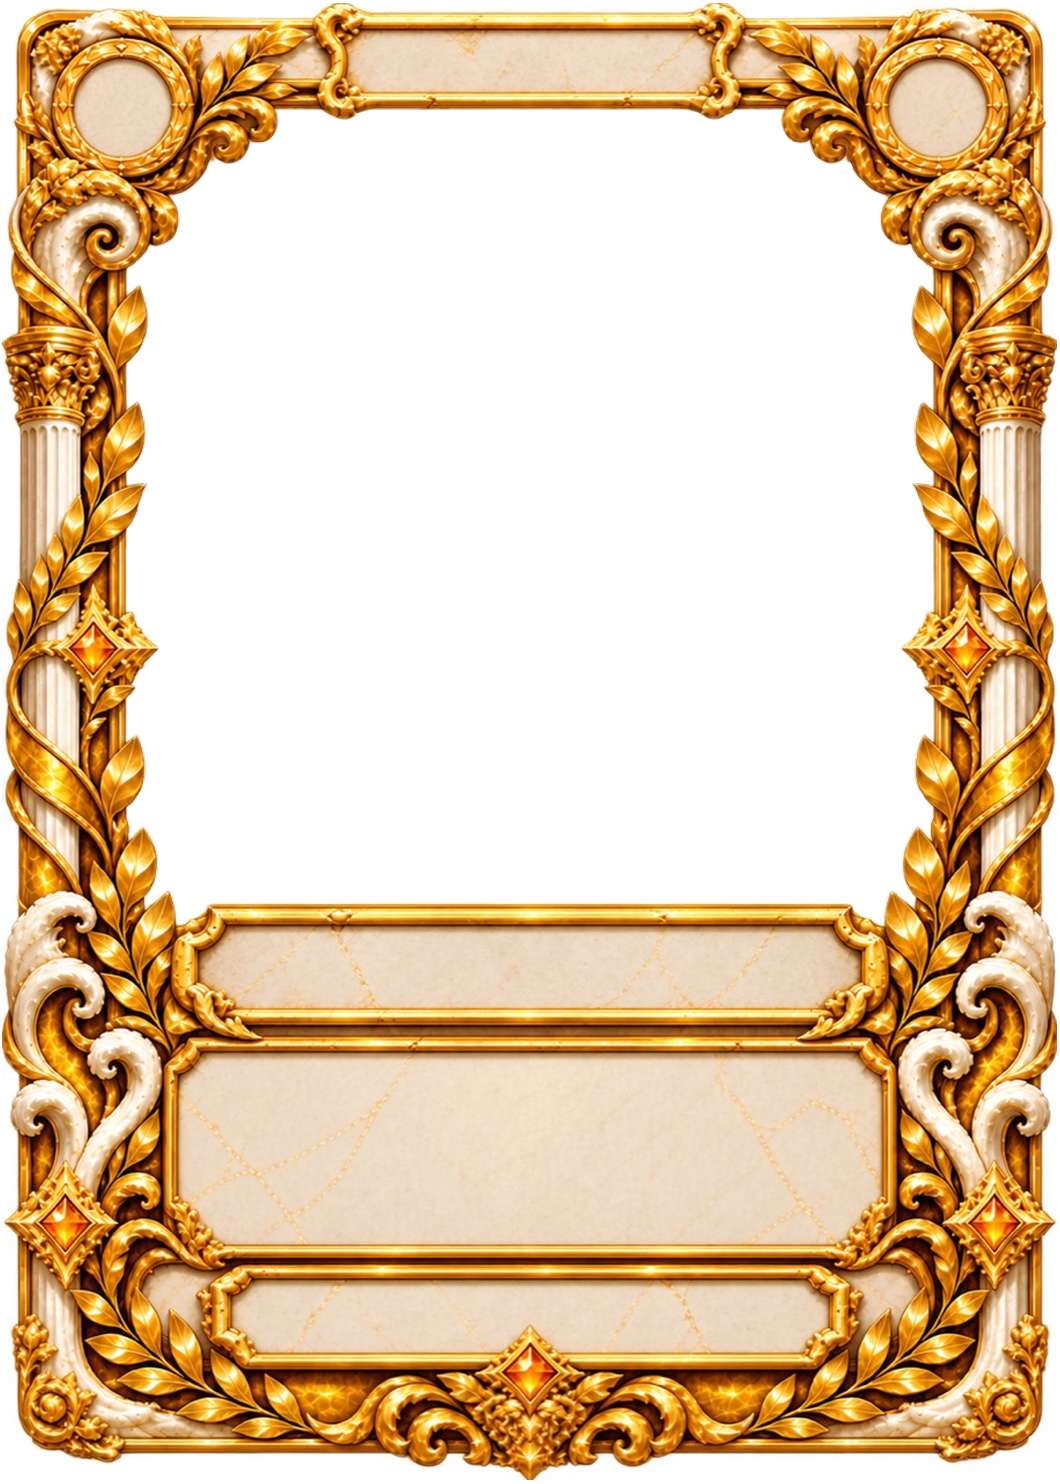
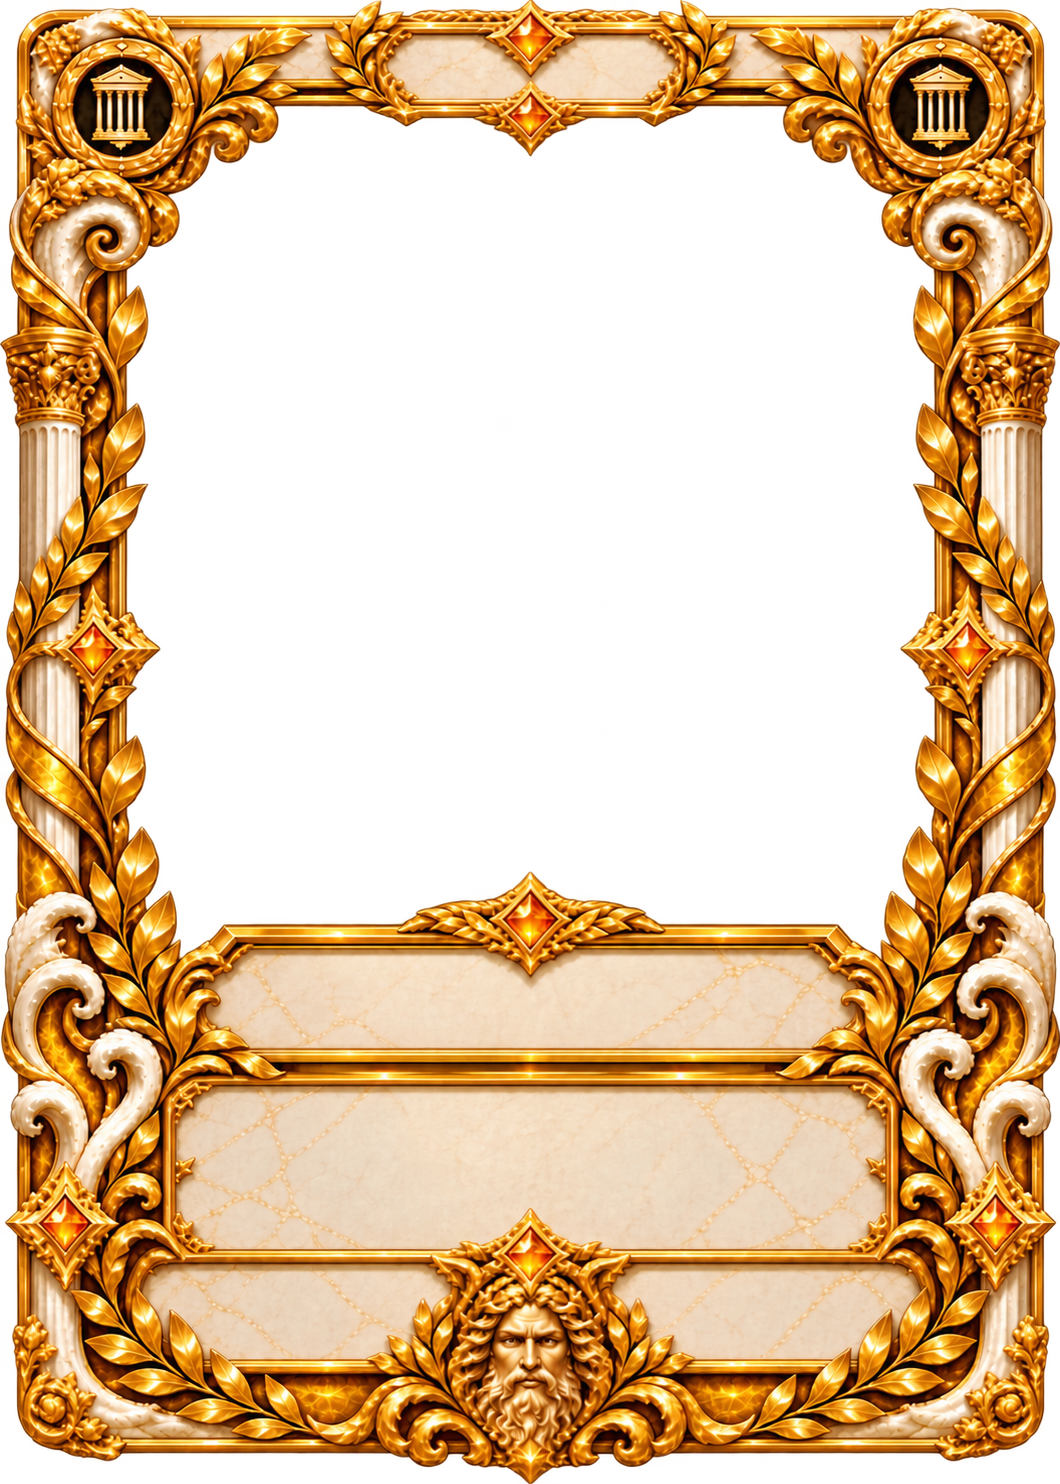
Revert "Replace rarity frames and restore card labels"
This reverts commit b0456628c48510b80b57ea14d74f53a1df18f2e5.

Changed region(s): [[0.0, 0.0, 1.0, 1.0]]

diff --git a/src/components/CardFront.tsx b/src/components/CardFront.tsx
@@ -30,46 +30,17 @@ export function CardFront({
     width,
     card.id === "olympe-30" ? 914 / 1280 : 5 / 7,
   );
+  const ink = card.rarity === 0 || card.rarity === 4 ? "#29231b" : theme.paper;
   const collection =
     EXTENSIONS.find((e) => e.id === card.extension)?.name ?? card.extension;
-  const numberSeal = card.number?.replace("-", "\n") ?? "—";
-  const extensionSeal = {
-    olympe: "EXT.\nI",
-    titans: "EXT.\nII",
-    heros: "EXT.\nIII",
-    creatures: "EXT.\nIV",
-  }[card.extension] ?? card.extension.toUpperCase();
   const unit = width / CARD_REFERENCE.width;
-  const newFrame = card.rarity > 0;
-  // Measured inner cartouches of the owner-supplied master PNGs.
+  // Measured inner cartouches of the seven master PNGs (not one shared offset).
   const nameBox = [
-    { top: 0.681, height: 0.043, left: 0.19, right: 0.19 },
-    { top: 0.628, height: 0.089, left: 0.18, right: 0.18 },
-    { top: 0.621, height: 0.097, left: 0.18, right: 0.18 },
-    { top: 0.621, height: 0.098, left: 0.18, right: 0.18 },
-    { top: 0.617, height: 0.086, left: 0.18, right: 0.18 },
-    { top: 0.624, height: 0.104, left: 0.18, right: 0.18 },
-    { top: 0.638, height: 0.09, left: 0.18, right: 0.18 },
+    { top: 0.681, height: 0.043 }, { top: 0.659, height: 0.045 },
+    { top: 0.673, height: 0.043 }, { top: 0.670, height: 0.043 },
+    { top: 0.665, height: 0.040 }, { top: 0.675, height: 0.047 },
+    { top: 0.673, height: 0.043 },
   ][card.rarity]!;
-  const descriptionBox = [
-    { top: 0.755, height: 0.09 },
-    { top: 0.725, height: 0.126 },
-    { top: 0.727, height: 0.124 },
-    { top: 0.729, height: 0.126 },
-    { top: 0.711, height: 0.14 },
-    { top: 0.738, height: 0.114 },
-    { top: 0.738, height: 0.134 },
-  ][card.rarity]!;
-  const footerBox = [
-    { top: 0.875, height: 0.05 },
-    { top: 0.861, height: 0.066 },
-    { top: 0.861, height: 0.068 },
-    { top: 0.864, height: 0.069 },
-    { top: 0.858, height: 0.071 },
-    { top: 0.861, height: 0.071 },
-    { top: 0.881, height: 0.061 },
-  ][card.rarity]!;
-  const nameInk = ["#29231b", theme.paper, theme.paper, theme.paper, "#29231b", theme.paper, "#29231b"][card.rarity]!;
   // Long descriptions must fit the ivory panel without touching the name band.
   const longDescription = (card.description?.length ?? 0) > 100;
   return (
@@ -123,42 +94,28 @@ export function CardFront({
       />
       {!compact && (
         <>
-          {newFrame && (
-            <>
-              <View style={s.numberSeal}>
-                <Text numberOfLines={2} adjustsFontSizeToFit style={[s.sealText, { fontSize: 40 * unit, lineHeight: 44 * unit }]}>
-                  {numberSeal}
-                </Text>
-              </View>
-              <View style={s.extensionSeal}>
-                <Text numberOfLines={2} adjustsFontSizeToFit style={[s.sealText, { fontSize: 40 * unit, lineHeight: 44 * unit }]}>
-                  {extensionSeal}
-                </Text>
-              </View>
-            </>
-          )}
-          <View style={[s.rarity, newFrame && s.rarityNew]}>
+          <View style={s.rarity}>
             <Text
               numberOfLines={1}
               style={{
-                color: card.rarity === 5 ? theme.paper : "#29231b",
+                color: ink,
                 fontFamily: fonts.bold,
-                fontSize: (newFrame ? 55 : 68) * unit,
+                fontSize: 68 * unit,
                 textAlign: "center",
               }}
             >
               {RARITIES[card.rarity]?.toUpperCase()}
             </Text>
           </View>
-          <View style={[s.name, { top: `${nameBox.top * 100}%`, height: `${nameBox.height * 100}%`, left: `${nameBox.left * 100}%`, right: `${nameBox.right * 100}%` }]}>
+          <View style={[s.name, { top: `${nameBox.top * 100}%`, height: `${nameBox.height * 100}%` }]}>
             <Text
               numberOfLines={1}
               adjustsFontSizeToFit
               style={{
-                color: nameInk,
+                color: ink,
                 fontFamily: fonts.bold,
-                fontSize: (newFrame ? 88 : 100) * unit,
-                lineHeight: (newFrame ? 98 : 110) * unit,
+                fontSize: 100 * unit,
+                lineHeight: 110 * unit,
                 includeFontPadding: false,
                 textAlign: "center",
               }}
@@ -166,7 +123,7 @@ export function CardFront({
               {card.name.toUpperCase()}
             </Text>
           </View>
-          <View style={[s.description, { top: `${descriptionBox.top * 100}%`, height: `${descriptionBox.height * 100}%` }]}>
+          <View style={s.description}>
             <Text
               numberOfLines={5}
               adjustsFontSizeToFit
@@ -180,22 +137,27 @@ export function CardFront({
               {card.description}
             </Text>
           </View>
-          <View style={[s.footer, { top: `${footerBox.top * 100}%`, height: `${footerBox.height * 100}%` }, newFrame && s.footerNew]}>
-            {newFrame ? (
-              <>
-                <Text numberOfLines={1} adjustsFontSizeToFit style={[s.footerEpithet, { fontSize: 39 * unit, lineHeight: 46 * unit }]}>
-                  {card.epithet?.toUpperCase() || card.name.toUpperCase()}
-                </Text>
-                <Text numberOfLines={1} adjustsFontSizeToFit style={[s.footerMeta, { fontSize: 30 * unit, lineHeight: 36 * unit }]}>
-                  {[card.category, collection].filter(Boolean).join(" · ")}
-                </Text>
-              </>
-            ) : (
-              <>
-                <Text style={{ color: "#29231b", fontFamily: fonts.bold, fontSize: 45 * unit }}>{card.number}</Text>
-                <Text numberOfLines={2} style={{ color: "#29231b", fontSize: 34 * unit, textAlign: "right", width: "42%" }}>{collection}</Text>
-              </>
-            )}
+          <View style={s.footer}>
+            <Text
+              style={{
+                color: "#29231b",
+                fontFamily: fonts.bold,
+                fontSize: 45 * unit,
+              }}
+            >
+              {card.number}
+            </Text>
+            <Text
+              numberOfLines={2}
+              style={{
+                color: "#29231b",
+                fontSize: 34 * unit,
+                textAlign: "right",
+                width: "42%",
+              }}
+            >
+              {collection}
+            </Text>
           </View>
         </>
       )}
@@ -211,10 +173,6 @@ const s = StyleSheet.create({
     height: "3.9%",
     justifyContent: "center",
   },
-  rarityNew: { top: "1.1%", left: "31%", right: "31%", height: "5.5%" },
-  numberSeal: { position: "absolute", top: "2.1%", left: "2.7%", width: "13.6%", height: "10%", alignItems: "center", justifyContent: "center" },
-  extensionSeal: { position: "absolute", top: "2.1%", right: "2.7%", width: "13.6%", height: "10%", alignItems: "center", justifyContent: "center" },
-  sealText: { color: "#29231b", fontFamily: fonts.bold, textAlign: "center", includeFontPadding: false },
   name: {
     position: "absolute",
     top: "65.2%",
@@ -241,7 +199,4 @@ const s = StyleSheet.create({
     alignItems: "center",
     justifyContent: "space-between",
   },
-  footerNew: { left: "20%", right: "20%", flexDirection: "column", justifyContent: "center", gap: 0 },
-  footerEpithet: { color: "#29231b", fontFamily: fonts.semibold, textAlign: "center", includeFontPadding: false, width: "100%" },
-  footerMeta: { color: "#554735", textAlign: "center", includeFontPadding: false, width: "100%" },
 });

diff --git a/src/domain/artworkLayout.ts b/src/domain/artworkLayout.ts
@@ -2,12 +2,12 @@
 // A small overlap stays beneath the opaque ornaments to avoid empty edge strips.
 export const FRAME_APERTURES = [
   { x: 0.111, y: 0.073, width: 0.78, height: 0.598 },
-  { x: 0.127, y: 0.072, width: 0.747, height: 0.561 },
-  { x: 0.114, y: 0.07, width: 0.772, height: 0.576 },
-  { x: 0.119, y: 0.069, width: 0.762, height: 0.585 },
-  { x: 0.118, y: 0.071, width: 0.766, height: 0.555 },
-  { x: 0.107, y: 0.069, width: 0.787, height: 0.57 },
-  { x: 0.121, y: 0.072, width: 0.759, height: 0.572 },
+  { x: 0.123, y: 0.073, width: 0.755, height: 0.562 },
+  { x: 0.115, y: 0.071, width: 0.772, height: 0.591 },
+  { x: 0.12, y: 0.071, width: 0.761, height: 0.582 },
+  { x: 0.118, y: 0.07, width: 0.765, height: 0.576 },
+  { x: 0.106, y: 0.07, width: 0.79, height: 0.57 },
+  { x: 0.115, y: 0.072, width: 0.77, height: 0.589 },
 ] as const;
 export interface ArtworkFocus {
   x: number;
